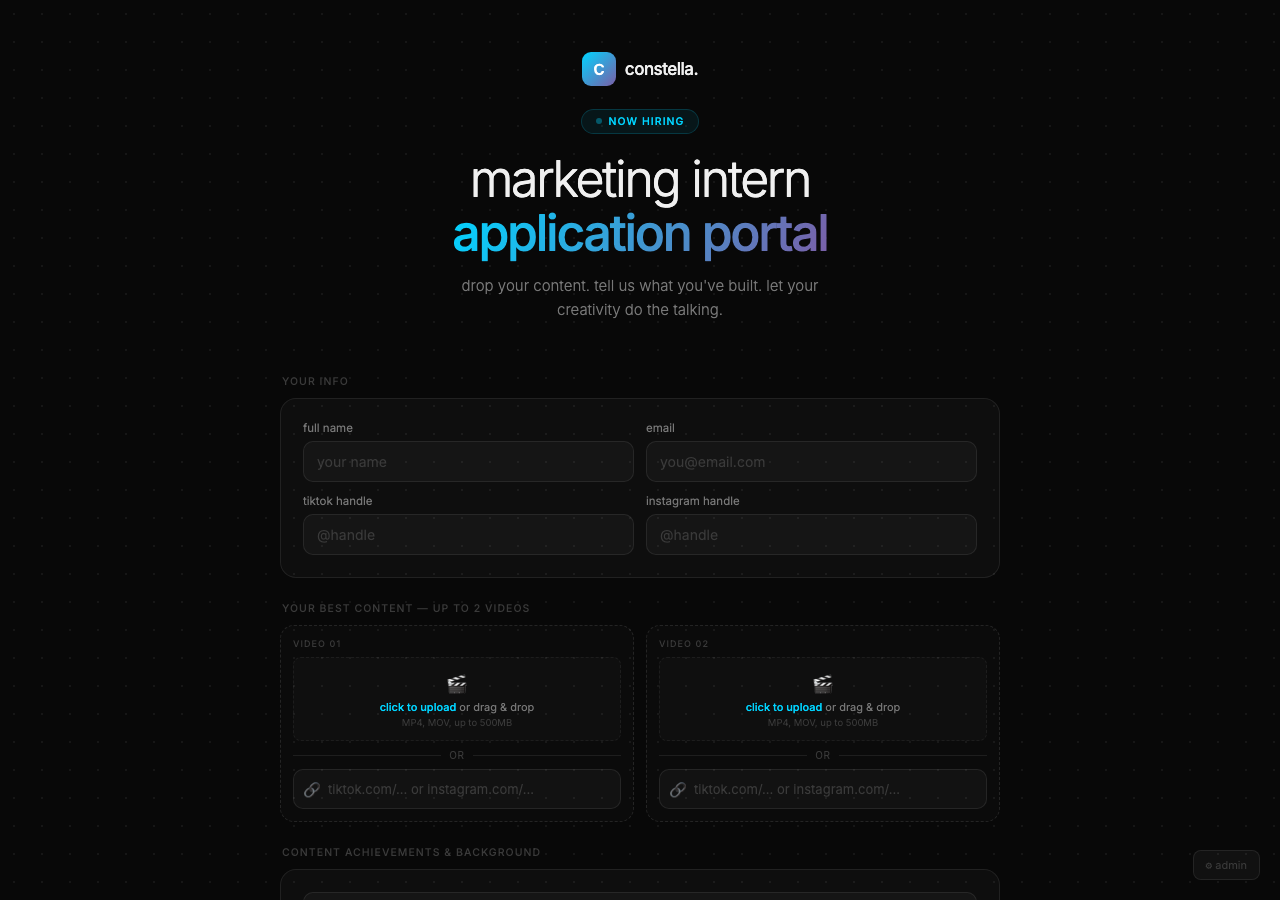
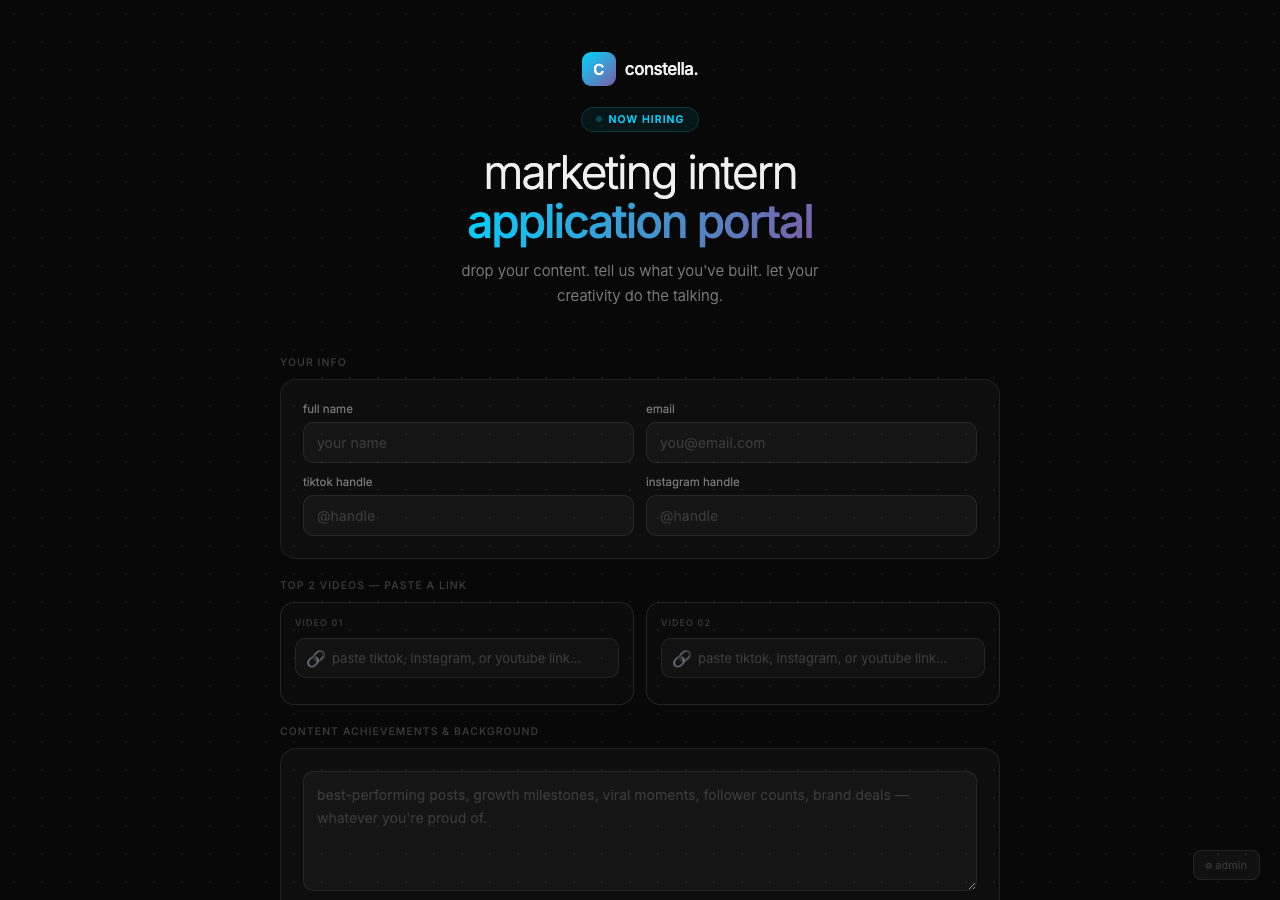
feat: add X handle + X posts, make socials optional

diff --git a/index.html b/index.html
@@ -218,8 +218,12 @@
           <div class="field"><label>email</label><input type="email" id="email" placeholder="you@email.com" /></div>
         </div>
         <div class="row">
-          <div class="field"><label>tiktok handle</label><input type="text" id="tiktok" placeholder="@handle" /></div>
-          <div class="field"><label>instagram handle</label><input type="text" id="ig" placeholder="@handle" /></div>
+          <div class="field"><label>tiktok handle <span style="color:var(--dim)">(optional)</span></label><input type="text" id="tiktok" placeholder="@handle" /></div>
+          <div class="field"><label>instagram handle <span style="color:var(--dim)">(optional)</span></label><input type="text" id="ig" placeholder="@handle" /></div>
+        </div>
+        <div class="row">
+          <div class="field"><label>x / twitter handle <span style="color:var(--dim)">(optional)</span></label><input type="text" id="xhandle" placeholder="@handle" /></div>
+          <div class="field"></div>
         </div>
       </div>
     </div>
@@ -246,6 +250,33 @@
               <input type="text" id="link1" placeholder="paste tiktok, instagram, or youtube link..." oninput="handleLink(1)" />
             </div>
             <div id="preview1"></div>
+          </div>
+        </div>
+      </div>
+    </div>
+
+    <!-- X Posts -->
+    <div class="section">
+      <span class="section-label">top x posts <span style="color:var(--dim);text-transform:none;letter-spacing:0">(optional)</span></span>
+      <div class="video-grid">
+        <div class="video-slot" id="xslot0">
+          <div class="slot-inner">
+            <div class="slot-num">post 01</div>
+            <div class="link-wrap">
+              <span class="link-icon" id="xicon0">𝕏</span>
+              <input type="text" id="xlink0" placeholder="x.com/username/status/..." oninput="handleXLink(0)" />
+            </div>
+            <div id="xpreview0"></div>
+          </div>
+        </div>
+        <div class="video-slot" id="xslot1">
+          <div class="slot-inner">
+            <div class="slot-num">post 02</div>
+            <div class="link-wrap">
+              <span class="link-icon" id="xicon1">𝕏</span>
+              <input type="text" id="xlink1" placeholder="x.com/username/status/..." oninput="handleXLink(1)" />
+            </div>
+            <div id="xpreview1"></div>
           </div>
         </div>
       </div>
@@ -319,6 +350,24 @@
       return { name: 'Link', icon: '🔗', embedUrl: null };
     }
 
+    function handleXLink(idx) {
+      const val = document.getElementById(`xlink${idx}`).value.trim();
+      const slot = document.getElementById(`xslot${idx}`);
+      const preview = document.getElementById(`xpreview${idx}`);
+      if (!val) { slot.classList.remove('has-link'); preview.innerHTML = ''; return; }
+      slot.classList.add('has-link');
+      // X posts can't be embedded directly, show link card
+      const shortUrl = val.replace('https://','').replace('http://','');
+      preview.innerHTML = `
+        <div class="link-card">
+          <span class="link-card-icon">𝕏</span>
+          <div class="link-card-body">
+            <div class="link-card-platform">X Post</div>
+            <div class="link-card-url">${shortUrl}</div>
+          </div>
+        </div>`;
+    }
+
     function handleLink(idx) {
       const val = document.getElementById(`link${idx}`).value.trim();
       const slot = document.getElementById(`slot${idx}`);
@@ -367,8 +416,11 @@
         name, email,
         tiktokHandle: document.getElementById('tiktok').value.trim(),
         igHandle: document.getElementById('ig').value.trim(),
+        xHandle: document.getElementById('xhandle').value.trim(),
         video1: video1 || null,
         video2: video2 || null,
+        xPost1: document.getElementById('xlink0').value.trim() || null,
+        xPost2: document.getElementById('xlink1').value.trim() || null,
         achievements: document.getElementById('achievements').value.trim(),
         why: document.getElementById('why').value.trim(),
         submittedAt: new Date().toISOString(),
@@ -396,7 +448,7 @@
               <div class="sub-vid-label">video ${i+1}</div>
               <a class="sub-vid-url" href="${url}" target="_blank">${url}</a>
             </div>`).join('');
-          const handles = [app.tiktokHandle && `TikTok: ${app.tiktokHandle}`, app.igHandle && `IG: ${app.igHandle}`].filter(Boolean).join(' · ');
+          const handles = [app.tiktokHandle && `TikTok: ${app.tiktokHandle}`, app.igHandle && `IG: ${app.igHandle}`, app.xHandle && `X: ${app.xHandle}`].filter(Boolean).join(' · ');
           return `
             <div class="sub-card">
               <div class="sub-head">
@@ -408,6 +460,13 @@
                 <div class="sub-time">${new Date(app.submittedAt).toLocaleString()}</div>
               </div>
               ${videos ? `<div class="sub-videos">${videos}</div>` : ''}
+              ${[app.xPost1, app.xPost2].filter(Boolean).length ? `
+                <div class="sub-videos">${[app.xPost1, app.xPost2].filter(Boolean).map((url, i) => `
+                  <div class="sub-video">
+                    <div class="sub-vid-label">𝕏 post ${i+1}</div>
+                    <a class="sub-vid-url" href="${url}" target="_blank">${url}</a>
+                  </div>`).join('')}
+                </div>` : ''}
               ${app.achievements ? `<div class="sub-section-label">achievements</div><div class="sub-text">${app.achievements}</div>` : ''}
               ${app.why ? `<div class="sub-section-label">why constella</div><div class="sub-text">${app.why}</div>` : ''}
             </div>`;
